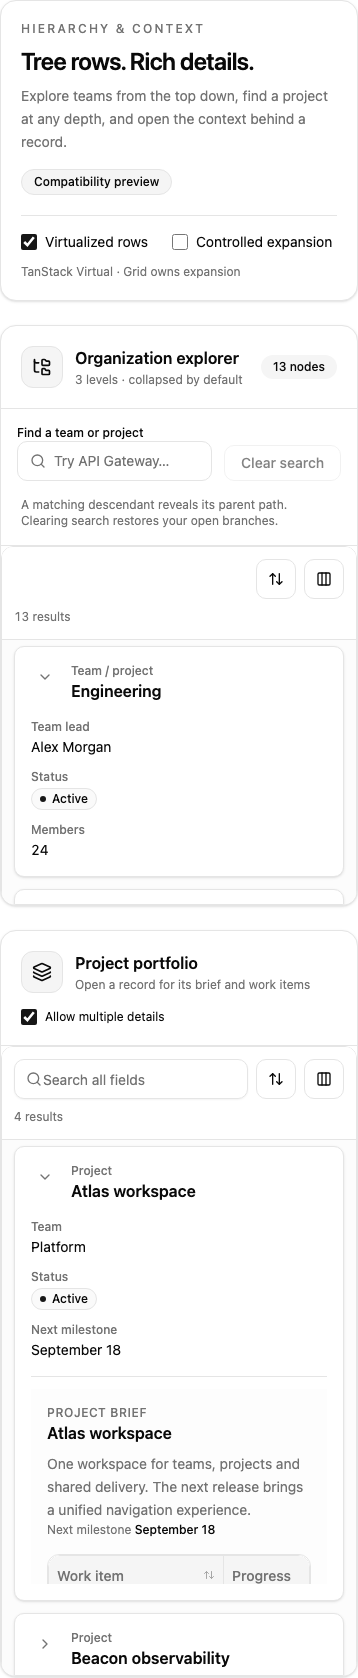
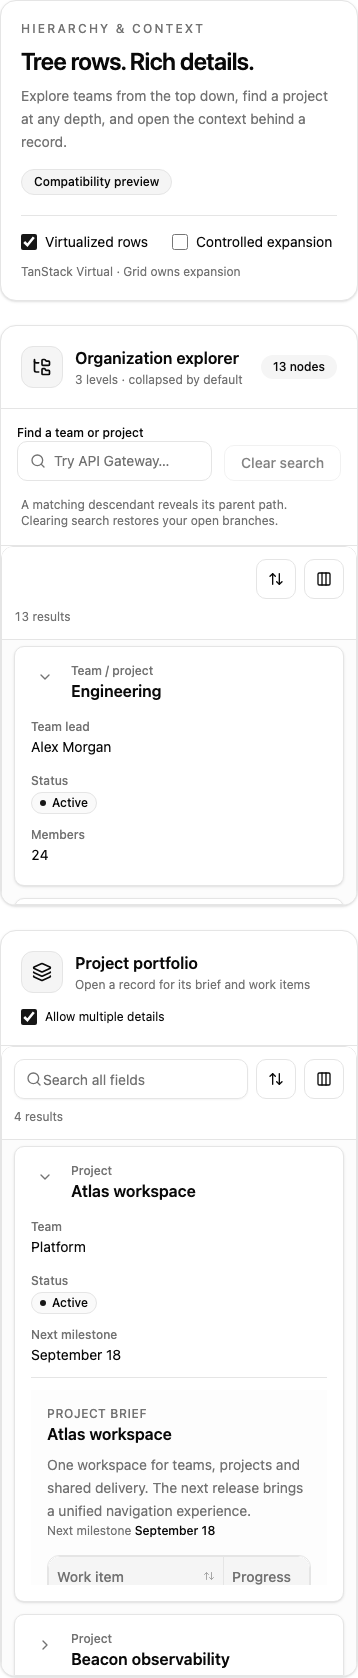
fix: preserve mobile compatibility during integration

diff --git a/examples/src/docs/docsContent.tsx b/examples/src/docs/docsContent.tsx
@@ -715,7 +715,7 @@ const typeDefinitions: Record<
 > = {
   TypeMobileTransformProps: {
     summary:
-      "Configures the responsive mobile layout. Every field is optional, and the defaults reproduce the layout allowMobileTransform gives on its own.",
+      "Configures the responsive mobile layout. Passing the object opts into its list and view-toggle defaults; omitting it preserves the original cards-only allowMobileTransform layout.",
     code: mobileTransformPropsDefinition,
   },
   TypeDataSource: {
@@ -1391,14 +1391,14 @@ const reactDataGridPropSections: ReferenceSection[] = [
         type: "boolean",
         defaultValue: "false",
         description:
-          "At widths up to 1024px, replaces the table with a virtualized mobile layout: rows as a compact list or as cards, current-page search, single-sort tools, and a hideable-column picker, while preserving renderers, actions, and selection. Use mobileTransform to configure it.",
+          "At widths up to 1024px, replaces the table with the original cards-only mobile layout, including current-page search, single-sort tools, and a hideable-column picker. Pass mobileTransform to opt into list, view-toggle, page-scroll, and row-budget behavior.",
       },
       {
         name: "mobileTransform",
         type: "TypeMobileTransformProps",
-        defaultValue: "{}",
+        defaultValue: "undefined",
         description:
-          "Configures the responsive layout: when it takes over, whether it scrolls inside the grid or with the document, how rows are presented, and how many render at once. See TypeMobileTransformProps for every field and its default.",
+          "Configures the responsive layout and opts into its list and view-toggle defaults. Omit it to preserve the existing cards-only allowMobileTransform behavior. See TypeMobileTransformProps for every field and configured default.",
       },
       {
         name: "flex",
@@ -3484,8 +3484,9 @@ type TypeSize = { width: number; height: number };`}
       <div className="space-y-4 text-sm text-muted-foreground">
         <p>
           Passed as <code>mobileTransform</code>. Every field is optional, and
-          the defaults reproduce the layout <code>allowMobileTransform</code>{" "}
-          gives on its own.
+          passing the object opts into the list presentation and cards/list
+          toggle by default. Omitting it preserves the original cards-only{" "}
+          <code>allowMobileTransform</code> layout.
         </p>
         <CodeBlock
           code={mobileTransformPropsDefinition}

diff --git a/AGENTS.md b/AGENTS.md
@@ -4,11 +4,7 @@ Mission
 the-datagrid is a React DataGrid library that provides an Inovua-like developer experience (API shape + type naming) while keeping the implementation lightweight and maintainable. The library prioritizes stability of its public API and type vocabulary over adding new knobs and options.
 
 Non-negotiable public contract (React component props)
-ReactDataGrid MUST always support these props, with these semantics. They are the
-floor, not the whole surface: the Inovua-parity work has since added many more
-(pagination, editing, selection, the responsive layout, the composable toolbar).
-Breaking one of the props below breaks the contract; the rest of
-TypeDataGridProps is semver-sensitive but negotiable.
+ReactDataGrid MUST support exactly these props as the public instantiation surface:
 
 * theme
 * idProperty
@@ -29,7 +25,7 @@ TypeDataGridProps is semver-sensitive but negotiable.
 
 Rules:
 
-1. A new public prop needs an explicit decision, never a default yes. Reach for an internal implementation or column-level configuration (TypeColumn fields) first, and widen the surface only when neither can carry the behaviour.
+1. Do not introduce new public props without an explicit decision. If functionality cannot fit into the fixed prop surface, it must be implemented internally, through column-level configuration (TypeColumn fields), or deferred.
 2. Do not rely on consumers passing additional props “for styling” or “for layout”. Styling must be handled internally via Tailwind/shadcn conventions (see below).
 3. Maintain backward compatibility for the semantics of these props once released.
 
@@ -39,6 +35,12 @@ tree-grid and master-detail support. The implemented `TypeTreeGridProps` and
 `docs/hierarchy-compatibility.md` for acceptance criteria and coverage, and
 `docs/research/inovua-hierarchy-sources.md` for recovered legacy contracts.
 Do not expose deferred legacy options as accepted but nonfunctional props.
+
+Explicit API decision (2026-09-06): the maintainer approved the responsive
+`mobileTransform` configuration and root sizing props after review of PR #121.
+Omitting `mobileTransform` must preserve the existing cards-only behavior of
+`allowMobileTransform`; the new list, page-scroll, and row-budget behavior stays
+behind the configuration object.
 
 Canonical exported types (Inovua-aligned vocabulary)
 the-datagrid exposes a naming and conceptual model aligned with Inovua, even if the implementation is simplified:
@@ -190,7 +192,7 @@ Repository map (where changes belong)
 
 Rules for agents contributing to the codebase
 
-1. The props listed above are fixed and must keep working. Widening the surface beyond them is a decision, not a reflex.
+1. Public prop surface is fixed. Do not add new props.
 2. Keep types aligned with Inovua naming and intent.
 3. Ensure both local and remote dataSources work and receive correct args.
 4. Ensure filteredRowsCount is accurate and consistent.
